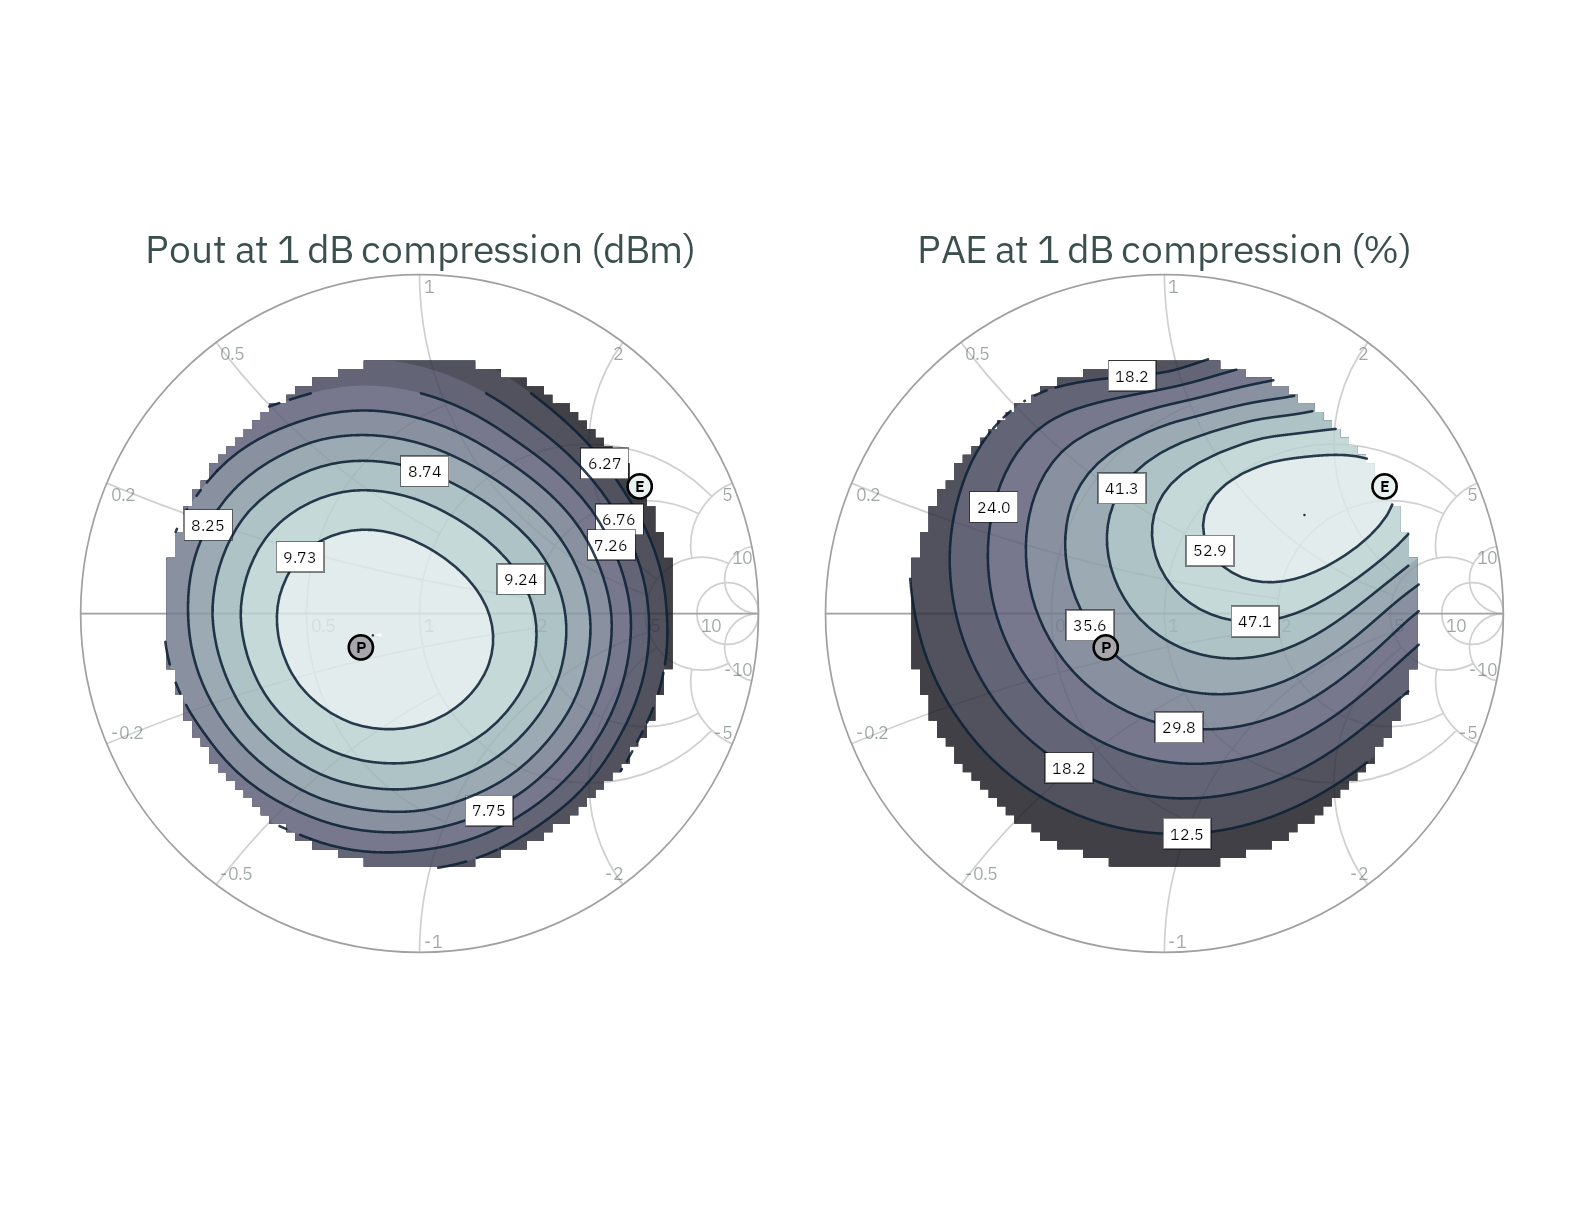
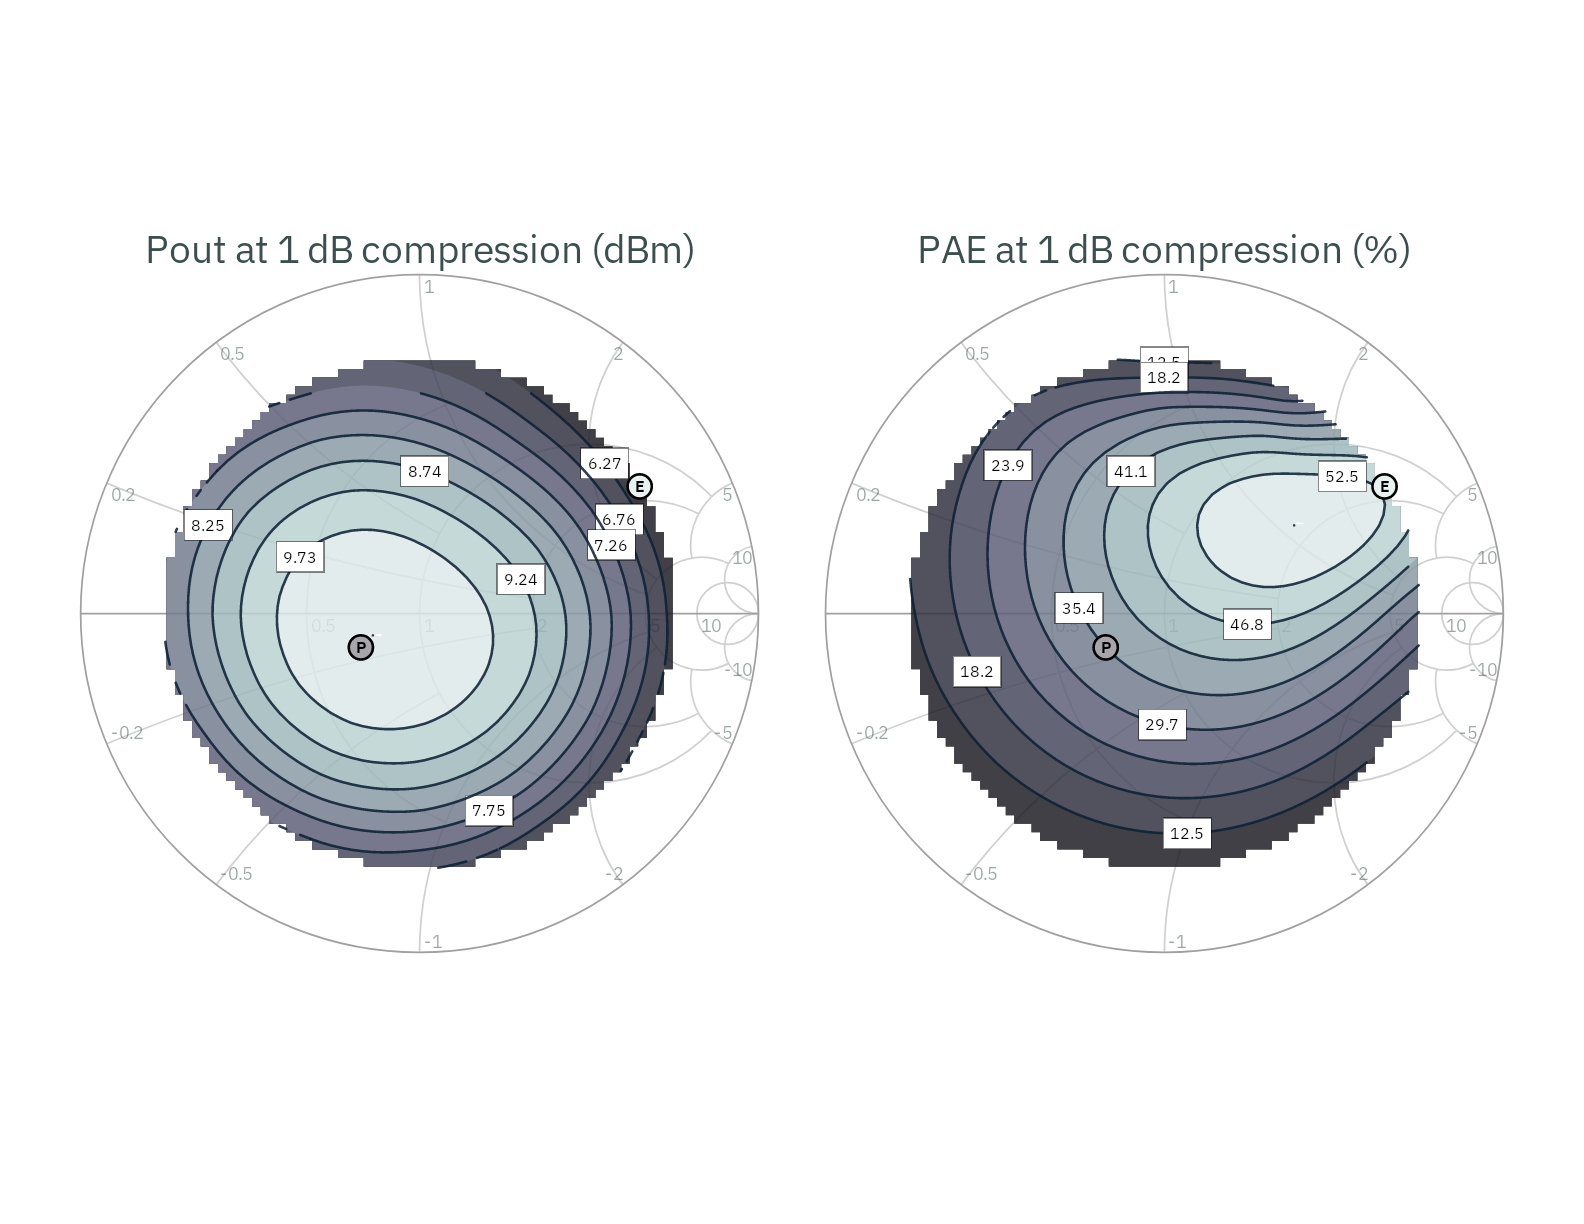
circuitRF 1.7.4 in the image; the kit built and checked on it
kit.def installs the 1.7.4 release tarball (circuitRF-1.7.4/app-1.7.4). The docs name 1.7.4 where they
state the version the kit is built and validated with; the stated minimum stays 1.7.3. TranslationVersion
stays 5 (DsnSymbolReader.TranslationVersion is 5 in 1.7.4).

Checked on 1.7.4, against 1.7.3 on the same repository:
- generator/build.sh: kit built. VALIDATION 143/143 within tolerance, byte-identical to 1.7.3's.
  PCELLS: 50 of 50 cells drawn by circuitRF, all identical to KLayout; the same lines as on 1.7.3,
  only the order of a few same-named rows differs. circuitrf check on the kit: 35 documents,
  0 errors, 11 warnings, 0 notes (1.7.3: the same). BUILD names circuitRF 1.7.4.
- circuitrf check examples --summary: 28 documents, 0 errors, 5 warnings (the documented five),
  15 notes (1.7.3: the same).
- Benches HBT_IcVce, Resistors, MIM_Cap, HBT_Ic, HBT_fT_fmax, CE_10GHz_HB, HBT_Loadpull (1,061 of
  1,568 points converged) and inductor_TB: every field of every result identical to 1.7.3's.
- EMerge inductor run: 26 s, S-parameters within 4.4e-10 of the 1.7.3 run. Palace and the planar MoM
  were not rerun.
- solver list: Palace 0.18.1 (0dc74cd) validated, EMerge 3.0.0 tested. MCP server: 21 tools, as 1.7.3.
- docs/make-figures.sh: every picture byte-identical to 1.7.3's render. All but HBT_Loadpull are
  byte-identical to the committed ones.
- ci/build-release.sh from a fresh clone: exit 0, 143/143, no VBIC-derived model in the zip.
[…]

Changed region(s): [[0.5878, 0.2794, 0.8971, 0.6209], [0.6496, 0.5899, 0.7115, 0.652], [0.5878, 0.5278, 0.6496, 0.5588]]

diff --git a/generator/ihp_pcells.py b/generator/ihp_pcells.py
@@ -22,7 +22,7 @@ lib = os.path.join(pdk, 'libs.tech', 'klayout', 'python')
 
 if os.path.isdir(os.path.join(lib, 'sg13g2_pycell_lib')):
     sys.path.insert(0, lib)
-    # Names the PDK's cells import that circuitRF 1.7.3's cni does not have. Aliases of its own
+    # Names the PDK's cells import that circuitRF 1.7.4's cni does not have. Aliases of its own
     # classes and a placeholder constant, no geometry: device_base_code (every resistor, MIM, MOS,
     # inductor and antenna) imports cni.rect and cni.text, cmomi/cmomf pass USE_DEFAULT to a
     # RangeConstraint, and chipText reads a polygon's points back.
@@ -38,7 +38,7 @@ if os.path.isdir(os.path.join(lib, 'sg13g2_pycell_lib')):
     if not hasattr(dlo.Polygon, 'getPoints'):
         dlo.Polygon.getPoints = lambda self, *_: self.points
     # Three behaviours of the API the cells are written against (pycell4klayout-api) that circuitRF
-    # 1.7.3's cni does differently; each checked against KLayout's own drawing (check_ihp_pcells.py).
+    # 1.7.4's cni does differently; each checked against KLayout's own drawing (check_ihp_pcells.py).
     # 1. The operands stay drawn; a cell deletes the ones it does not want (npn13G2L/V keep their
     #    Activ.mask rectangles this way).
     # 2. A result fed into another boolean keeps its holes. The host unions the rings it is given, so

diff --git a/generator/ihp2crf.py b/generator/ihp2crf.py
@@ -618,7 +618,7 @@ folders directly under it, so a workspace using the kit holds one:
 allow them (it asks; headless, `--trust-kit <that folder>`). The PDK declares
 most parameters as text: write lengths as `0.9u` or `9e-07` and counts such as
 `ng` and `b` as `2`. A bare number in a text field is ignored, and the cell
-keeps its default. The kit's own cells have no layout view (circuitRF 1.7.3
+keeps its default. The kit's own cells have no layout view (circuitRF 1.7.4
 ties a generator only to imported kit parts, not to library cells), so place
 the PCell with the cell's values.
 

diff --git a/docs/iic-osic-tools-integration.md b/docs/iic-osic-tools-integration.md
@@ -18,7 +18,7 @@ them once, with its own OpenVAF (`generator/build-vbic.sh`). The image then no l
 | | IIC-OSIC-TOOLS-based image, today | Kit image (`kit.sif`, from `kit.def`) |
 |---|---|---|
 | Base | IIC-OSIC-TOOLS 2026.09, PDK commit `c271a7e97a7b…` | the same, so the same PDK, OpenVAF, ngspice, Xyce and Palace |
-| circuitRF | 1.6.0, built from source in the recipe (.NET SDK), GUI and CLI as two programs | 1.7.3, the release tarball: one program |
+| circuitRF | 1.6.0, built from source in the recipe (.NET SDK), GUI and CLI as two programs | 1.7.4, the release tarball: one program |
 | Patches to circuitRF | two: the OSDI worker's `$limit` and state (without it, VBIC crashes), and the 3D view's software present | none: both are upstream since 1.7.3 |
 | Command line | `circuitrf cli <verb>` (the recipe's wrapper) | `circuitrf <verb>` (upstream) |
 | Kit built by | the setup script, after every image build, from `circuitrf-kit/` | `generator/build.sh`; released by the workflow |
@@ -27,9 +27,9 @@ them once, with its own OpenVAF (`generator/build-vbic.sh`). The image then no l
 | Workspaces place a cell as | `/foss/tools/circuitrf/kits/IHP_SG13G2/<cell>` | `ws://IHP_SG13G2/<cell>`, through a `ReferencedWorkspaces` alias plus a `LibraryRefs` entry |
 | Kit `tools/` | a copy of the generator. The image links `/foss/tools/circuitrf/tools` and `circuitrf-ihp-workspace` into it | none; the generator is `generator/` here |
 | EM stackup (`tech/IHP_SG13G2.ctech`) | from the PDK's gds2palace XML (GPL-3.0); 180 µm substrate | from the PDK's ITF and process specification (Apache-2.0); 750 µm substrate |
-| Validation | 120/120 on circuitRF 1.6.0 | 120/120 on 1.7.3, every number the same |
+| Validation | 120/120 on circuitRF 1.6.0 | 143/143 on 1.7.4, every number the same as on 1.7.3; 120/120 on 1.7.3 matched 1.6.0's |
 | Palace wrapper, solve branch | its own `run_palace` (`PALACE_NP` cap, error estimate off) → Palace's `palace` launcher → one `mpirun` | `<launcher> -n N palace-x86_64.bin config.json` directly, with the `PALACE_NP` cap |
-| EMerge | installed into the image by circuitRF's installer; the wrapper hard-codes `emerge/3.0.0b3/env` | installed per user; circuitRF 1.7.3 pins EMerge **3.0.0** |
+| EMerge | installed into the image by circuitRF's installer; the wrapper hard-codes `emerge/3.0.0b3/env` | installed per user; circuitRF 1.7.4 pins EMerge **3.0.0** |
 | harmonicaRF `.charm` | in an example workspace, naming the kit's `.osdi` by absolute path | written by `generator/build.sh` into `examples/harmonica/` (git-ignored, not in the release) |
 
 The cells themselves are the same. Between the two builds, each cell's schematic differs only in its
@@ -37,12 +37,12 @@ model path. Cell names, pins and parameters are unchanged.
 
 ## Recommended: the released kit
 
-### 1. circuitRF 1.7.3 in the recipe
+### 1. circuitRF 1.7.4 in the recipe
 
 There are two ways:
 
-- **A. Keep building from source** at tag `1.7.3`, and drop both patches. This is the **smaller diff**:
-  one tag changes and the patch lines go. 1.7.3 still has both `src/Ui` and `src/Cli` and still targets
+- **A. Keep building from source** at tag `1.7.4`, and drop both patches. This is the **smaller diff**:
+  one tag changes and the patch lines go. 1.7.4 still has both `src/Ui` and `src/Cli` and still targets
   .NET 10, so the rest of the build block stands.
 - **B. Install the release tarball, as `kit.def` does.** This is a bigger diff, because the whole .NET
   block goes. It leaves a **smaller recipe**, and it is the recommendation:
@@ -80,9 +80,9 @@ Proposed change to the recipe for B:
 -    cp $C/app/osdi-worker $C/cli/
 -    cp -n $C/app/*.so $C/cli/
 +    # circuitRF's release: one self-contained program for the GUI and the verbs, its osdi-worker beside it.
-+    curl -fsSL https://github.com/potatobeanradio/circuitRF/releases/download/1.7.3/circuitRF-1.7.3-linux-x64.tar.gz \
++    curl -fsSL https://github.com/potatobeanradio/circuitRF/releases/download/1.7.4/circuitRF-1.7.4-linux-x64.tar.gz \
 +        | tar -xz -C /opt
-+    ln -s /opt/circuitRF-1.7.3/app-1.7.3 $C/app
++    ln -s /opt/circuitRF-1.7.4/app-1.7.4 $C/app
      ...
 -    HOME=$C/solver-home $C/cli/CircuitRF.Cli solver install emerge --yes
 +    HOME=$C/solver-home $C/app/circuitRF solver install emerge --yes
@@ -101,10 +101,10 @@ Proposed change to the recipe for B:
 
 `mkdir -p /opt/build` stays, because EMStudio's build still uses it.
 
-Option A changes the same `%files`, `IHP_KIT` and EMerge lines, sets `--branch 1.7.3`, and deletes the
+Option A changes the same `%files`, `IHP_KIT` and EMerge lines, sets `--branch 1.7.4`, and deletes the
 two `patch` lines. In both options, the patch files in the recipe's folder can then be deleted.
 
-**The EMerge path has to change either way.** circuitRF 1.7.3 installs EMerge 3.0.0 into `…/emerge/3.0.0/env`,
+**The EMerge path has to change either way.** circuitRF 1.7.4 installs EMerge 3.0.0 into `…/emerge/3.0.0/env`,
 and `lib/libmkl_rt.so.3` is still in it. With the old `3.0.0b3` path, the recipe's own
 `circuitrf cli solver list` check would report EMerge not found and stop the build.
 
@@ -245,10 +245,10 @@ again. Palace stopped with `mpirun does not support recursive calls`.
 
 - The recipe copies its own `run_palace` over the base's, and that one runs the launcher once:
   `exec /foss/tools/palace/bin/palace -np "$NP" "$CONFIG"`. The chain therefore has a single `mpirun`.
-- circuitRF 1.7.3 starts Palace as 1.6.0 did. It runs `<CIRCUITRF_PALACE> -np N --launcher <mpirun> config.json`
+- circuitRF 1.7.4 starts Palace as 1.6.0 did. It runs `<CIRCUITRF_PALACE> -np N --launcher <mpirun> config.json`
   and does not run that program under MPI itself (`PalaceCommand` in circuitRF's
   `src/Design/Em3d/PalaceRun.cs` is the same in both).
-- 1.7.3 still validates Palace commit `0dc74cd`, so the `--version` branch stays as it is.
+- 1.7.4 still validates Palace commit `0dc74cd`, so the `--version` branch stays as it is.
 
 Keep that wrapper. It also has the error-estimate saving that `kit.def`'s wrapper lacks. It would nest
 `mpirun` only if the recipe stopped installing its own `run_palace`. In that case, take `kit.def`'s
@@ -311,7 +311,7 @@ To make this path the setup script's default, keep the old "rebuild when the ima
 **After the change**, from the image's folder:
 
 ```bash
-./run.sh circuitrf --version                 # 1.7.3
+./run.sh circuitrf --version                 # 1.7.4
 ./run.sh circuitrf solver list               # Palace 0.18.1 (0dc74cd) validated; EMerge, openEMS, Gmsh found
 K=/foss/tools/circuitrf/kits/IHP_SG13G2
 ./run.sh bash -c "python3 $K/tools/validate_ihp_kit.py --kit $K | diff - $K/VALIDATION"   # 143/143, no diff
@@ -332,8 +332,9 @@ mkdir designs/kit-check/examples/tech && cp kits/IHP_SG13G2/tech/IHP_SG13G2.ctec
 ```
 
 - **One bench:** `CE_10GHz_HB` should give the same Pout, Gt, H2 and H3 as the same bench run on the old
-  image. This repository found every number identical between 1.6.0 and 1.7.3. Rerun one existing design
-  of your own as well, and compare it with its results from before the switch.
+  image. This repository found every number identical between 1.6.0 and 1.7.3, and between 1.7.3 and
+  1.7.4. Rerun one existing design of your own as well, and compare it with its results from before the
+  switch.
 - **EMerge:** the run takes about 28 s and checks the new 3.0.0 path and `EMERGE_PARDISO_PATH`.
 - **Palace:** start `circuitrf em inductor/em/inductor_palace.cem`, or any smaller `.cem`. Its log
   should show N ranks starting, with no `recursive calls`. The full inductor run takes about 1 h 18 min

diff --git a/README.md b/README.md
@@ -101,7 +101,7 @@ has is identical (50 of 50 comparisons, defaults and 12 parameter sets).
 
 The PCells need the IHP PDK at `$PDKPATH` (or `$PDK_ROOT/ihp-sg13g2`) and Python 3.10 or newer; circuitRF runs
 them once you allow the kit (headless: `--trust-kit <workspace>/ihp-sg13g2-pcells`). Most parameters are text:
-write lengths as `0.9u` or `9e-07`. circuitRF 1.7.3 links a PCell only to imported kit parts, so the schematic
+write lengths as `0.9u` or `9e-07`. circuitRF 1.7.4 links a PCell only to imported kit parts, so the schematic
 cells have no layout view of their own: place the PCell with the cell's values.
 
 <p align="center">
@@ -210,7 +210,7 @@ local circuitRF installation.
 
 ```mermaid
 flowchart LR
-    subgraph image["kit.sif: IIC-OSIC-TOOLS 2026.09 + circuitRF 1.7.3"]
+    subgraph image["kit.sif: IIC-OSIC-TOOLS 2026.09 + circuitRF 1.7.4"]
         PDK["IHP SG13G2 PDK<br/>ngspice models, corner libraries,<br/>Qucs-S symbols, KLayout .lyp, ITF"]
         VA["VBIC 1.3<br/>Verilog-A source"]
         TOOLS["OpenVAF · ngspice · Xyce"]

diff --git a/CLAUDE.md b/CLAUDE.md
@@ -15,12 +15,12 @@ To design or simulate with the kit, use the skill in `.claude/skills/ihp-sg13g2-
 | `docs/` | `make-figures.sh`, `white.ccolor`, `images/` (the pages use `images/white/`). |
 | `ci/build-release.sh`, `.github/workflows/release.yml` | The release zip, built and validated in the base image. |
 | `release/` | The `README.md`, `CLAUDE.md` and `.mcp.json` placed at the top of the release zip. |
-| `kit.def`, `kit.sh` | The image (`hpretl/iic-osic-tools` plus circuitRF 1.7.3) and its launcher. |
+| `kit.def`, `kit.sh` | The image (`hpretl/iic-osic-tools` plus circuitRF 1.7.4) and its launcher. |
 
 ## Running tools
 
 Run everything in the image, through `./kit.sh <command...>` from the top folder. The image has ngspice, Xyce,
-OpenVAF, the IHP PDK (`$PDKPATH`) and circuitRF 1.7.3.
+OpenVAF, the IHP PDK (`$PDKPATH`) and circuitRF 1.7.4.
 
 - Build the image once: `apptainer build --fakeroot kit.sif kit.def`.
 - `kit.sh` always starts in the top folder and uses `.home/` as HOME. Both `.home/` and `kit.sif` are git-ignored,

diff --git a/.claude/skills/ihp-sg13g2-kit/SKILL.md b/.claude/skills/ihp-sg13g2-kit/SKILL.md
@@ -267,7 +267,7 @@ Running EM:
 
 ## circuitRF's MCP tools
 
-circuitRF 1.7.3's server offers 21 tools: `find`, `reference`, `create`, `check`, `explain`, `netlist`, `run`,
+circuitRF 1.7.4's server offers 21 tools: `find`, `reference`, `create`, `check`, `explain`, `netlist`, `run`,
 `read`, `render`, `plot`, `job`, `batch`, `history`, `solver`, `convert`, `import`, `lvs`, `recognize`,
 `impedance`, `review` and `model`. No tool writes your text: write documents with your own file tools.
 
